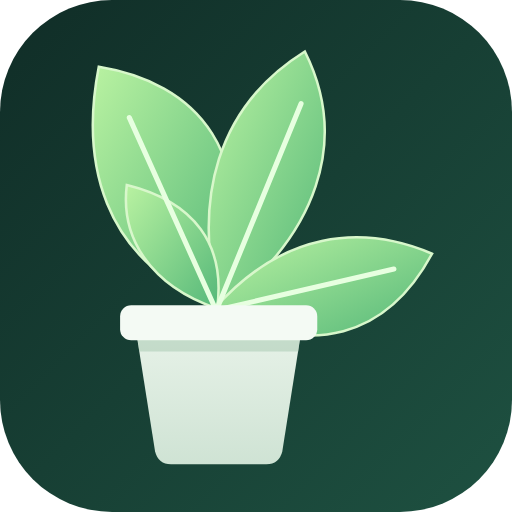
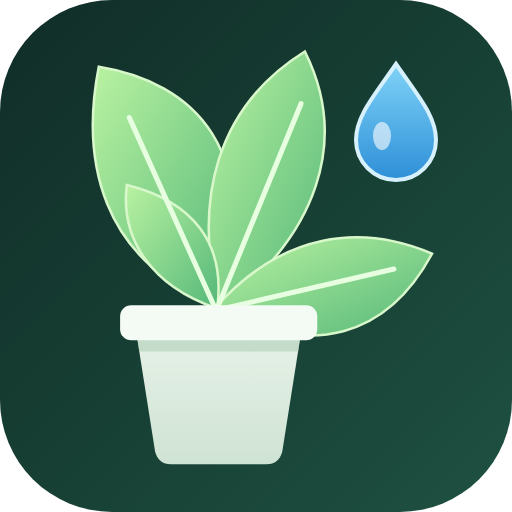
docs: add a water drop to the emblem
Claude-Session: https://claude.ai/code/session_013uZs62LriKPCejSMFFtfdA

Changed region(s): [[0.6875, 0.125, 0.875, 0.375]]

diff --git a/custom_components/plant_manager/www/plant-manager-card.js b/custom_components/plant_manager/www/plant-manager-card.js
@@ -139,7 +139,7 @@ const plantManagerLanguage = (hass) => hass?.locale?.language || hass?.language;
 const plantManagerNumber = (value, T) => Number(value).toLocaleString(T.locale, { maximumFractionDigits: 1 });
 
 // The Plant Manager emblem, generated from docs/brand/plant-manager-icon.svg.
-const PLANT_MANAGER_EMBLEM = '<svg viewBox="0 0 256 256" aria-hidden="true"><defs><linearGradient id="pm-bg" x1="0" y1="0" x2="1" y2="1"><stop offset="0" stop-color="#102d27"/><stop offset="1" stop-color="#1e5141"/></linearGradient><linearGradient id="pm-pot" x1="0" y1="0" x2="0" y2="1"><stop offset="0" stop-color="#e7f2e8"/><stop offset="1" stop-color="#cfe3d4"/></linearGradient><linearGradient id="pm-leaf" x1="0" y1="0" x2="1" y2="1"><stop offset="0" stop-color="#b9f2a1"/><stop offset="1" stop-color="#55b879"/></linearGradient></defs><rect id="pm-tile" width="256" height="256" rx="56" fill="url(#pm-bg)"/><g id="pm-plant" transform="translate(20.3 -15.9) scale(.795)" fill="url(#pm-leaf)" stroke="#d8f7cb" stroke-width="2"><g transform="translate(111 214) scale(.8) translate(-111 -214)"><path d="M112 212C18 176 4 96 18 24c74 12 132 65 94 188Z"/><path d="M113 214C91 128 111 55 180 12c35 70 10 145-67 202Z"/><path d="M109 214C162 154 224 147 280 171c-35 65-94 83-171 43Z"/><path d="M111 214C58 196 35 158 40 117c53 13 78 47 71 97Z"/><path d="M110 215L42 64M111 214L177 53M112 215L250 183" fill="none" stroke="#e7ffe0" stroke-width="4" stroke-linecap="round"/></g><g stroke="none"><path d="M60 228H164L152 304Q150 312 142 312H82Q74 312 72 304Z" fill="url(#pm-pot)"/><path d="M61 233H163L162 241H62Z" fill="#a9cbb2" opacity=".55"/><rect x="50" y="212" width="124" height="22" rx="7" fill="#f4faf4"/></g></g></svg>';
+const PLANT_MANAGER_EMBLEM = '<svg viewBox="0 0 256 256" aria-hidden="true"><defs><linearGradient id="pm-bg" x1="0" y1="0" x2="1" y2="1"><stop offset="0" stop-color="#102d27"/><stop offset="1" stop-color="#1e5141"/></linearGradient><linearGradient id="pm-pot" x1="0" y1="0" x2="0" y2="1"><stop offset="0" stop-color="#e7f2e8"/><stop offset="1" stop-color="#cfe3d4"/></linearGradient><linearGradient id="pm-drop" x1="0" y1="0" x2="0" y2="1"><stop offset="0" stop-color="#7fd3f7"/><stop offset="1" stop-color="#2e8fd8"/></linearGradient><linearGradient id="pm-leaf" x1="0" y1="0" x2="1" y2="1"><stop offset="0" stop-color="#b9f2a1"/><stop offset="1" stop-color="#55b879"/></linearGradient></defs><rect id="pm-tile" width="256" height="256" rx="56" fill="url(#pm-bg)"/><g id="pm-plant" transform="translate(20.3 -15.9) scale(.795)" fill="url(#pm-leaf)" stroke="#d8f7cb" stroke-width="2"><g transform="translate(111 214) scale(.8) translate(-111 -214)"><path d="M112 212C18 176 4 96 18 24c74 12 132 65 94 188Z"/><path d="M113 214C91 128 111 55 180 12c35 70 10 145-67 202Z"/><path d="M109 214C162 154 224 147 280 171c-35 65-94 83-171 43Z"/><path d="M111 214C58 196 35 158 40 117c53 13 78 47 71 97Z"/><path d="M110 215L42 64M111 214L177 53M112 215L250 183" fill="none" stroke="#e7ffe0" stroke-width="4" stroke-linecap="round"/></g><g stroke="none"><path d="M60 228H164L152 304Q150 312 142 312H82Q74 312 72 304Z" fill="url(#pm-pot)"/><path d="M61 233H163L162 241H62Z" fill="#a9cbb2" opacity=".55"/><rect x="50" y="212" width="124" height="22" rx="7" fill="#f4faf4"/></g></g><g id="pm-drop-mark" transform="translate(198 62)"><path d="M0-30C11-14 20-4 20 8A20 20 0 0 1-20 8C-20-4-11-14 0-30Z" fill="url(#pm-drop)" stroke="#d6f1fd" stroke-width="2"/><ellipse cx="-7" cy="6" rx="4.5" ry="7" fill="#ffffff" opacity=".6"/></g></svg>';
 
 const PLANT_MANAGER_STATUSES = {
   needs_water: { tone: "dry", icon: "mdi:water-alert-outline", order: 0 },

diff --git a/www/plant-manager-card.js b/www/plant-manager-card.js
@@ -139,7 +139,7 @@ const plantManagerLanguage = (hass) => hass?.locale?.language || hass?.language;
 const plantManagerNumber = (value, T) => Number(value).toLocaleString(T.locale, { maximumFractionDigits: 1 });
 
 // The Plant Manager emblem, generated from docs/brand/plant-manager-icon.svg.
-const PLANT_MANAGER_EMBLEM = '<svg viewBox="0 0 256 256" aria-hidden="true"><defs><linearGradient id="pm-bg" x1="0" y1="0" x2="1" y2="1"><stop offset="0" stop-color="#102d27"/><stop offset="1" stop-color="#1e5141"/></linearGradient><linearGradient id="pm-pot" x1="0" y1="0" x2="0" y2="1"><stop offset="0" stop-color="#e7f2e8"/><stop offset="1" stop-color="#cfe3d4"/></linearGradient><linearGradient id="pm-leaf" x1="0" y1="0" x2="1" y2="1"><stop offset="0" stop-color="#b9f2a1"/><stop offset="1" stop-color="#55b879"/></linearGradient></defs><rect id="pm-tile" width="256" height="256" rx="56" fill="url(#pm-bg)"/><g id="pm-plant" transform="translate(20.3 -15.9) scale(.795)" fill="url(#pm-leaf)" stroke="#d8f7cb" stroke-width="2"><g transform="translate(111 214) scale(.8) translate(-111 -214)"><path d="M112 212C18 176 4 96 18 24c74 12 132 65 94 188Z"/><path d="M113 214C91 128 111 55 180 12c35 70 10 145-67 202Z"/><path d="M109 214C162 154 224 147 280 171c-35 65-94 83-171 43Z"/><path d="M111 214C58 196 35 158 40 117c53 13 78 47 71 97Z"/><path d="M110 215L42 64M111 214L177 53M112 215L250 183" fill="none" stroke="#e7ffe0" stroke-width="4" stroke-linecap="round"/></g><g stroke="none"><path d="M60 228H164L152 304Q150 312 142 312H82Q74 312 72 304Z" fill="url(#pm-pot)"/><path d="M61 233H163L162 241H62Z" fill="#a9cbb2" opacity=".55"/><rect x="50" y="212" width="124" height="22" rx="7" fill="#f4faf4"/></g></g></svg>';
+const PLANT_MANAGER_EMBLEM = '<svg viewBox="0 0 256 256" aria-hidden="true"><defs><linearGradient id="pm-bg" x1="0" y1="0" x2="1" y2="1"><stop offset="0" stop-color="#102d27"/><stop offset="1" stop-color="#1e5141"/></linearGradient><linearGradient id="pm-pot" x1="0" y1="0" x2="0" y2="1"><stop offset="0" stop-color="#e7f2e8"/><stop offset="1" stop-color="#cfe3d4"/></linearGradient><linearGradient id="pm-drop" x1="0" y1="0" x2="0" y2="1"><stop offset="0" stop-color="#7fd3f7"/><stop offset="1" stop-color="#2e8fd8"/></linearGradient><linearGradient id="pm-leaf" x1="0" y1="0" x2="1" y2="1"><stop offset="0" stop-color="#b9f2a1"/><stop offset="1" stop-color="#55b879"/></linearGradient></defs><rect id="pm-tile" width="256" height="256" rx="56" fill="url(#pm-bg)"/><g id="pm-plant" transform="translate(20.3 -15.9) scale(.795)" fill="url(#pm-leaf)" stroke="#d8f7cb" stroke-width="2"><g transform="translate(111 214) scale(.8) translate(-111 -214)"><path d="M112 212C18 176 4 96 18 24c74 12 132 65 94 188Z"/><path d="M113 214C91 128 111 55 180 12c35 70 10 145-67 202Z"/><path d="M109 214C162 154 224 147 280 171c-35 65-94 83-171 43Z"/><path d="M111 214C58 196 35 158 40 117c53 13 78 47 71 97Z"/><path d="M110 215L42 64M111 214L177 53M112 215L250 183" fill="none" stroke="#e7ffe0" stroke-width="4" stroke-linecap="round"/></g><g stroke="none"><path d="M60 228H164L152 304Q150 312 142 312H82Q74 312 72 304Z" fill="url(#pm-pot)"/><path d="M61 233H163L162 241H62Z" fill="#a9cbb2" opacity=".55"/><rect x="50" y="212" width="124" height="22" rx="7" fill="#f4faf4"/></g></g><g id="pm-drop-mark" transform="translate(198 62)"><path d="M0-30C11-14 20-4 20 8A20 20 0 0 1-20 8C-20-4-11-14 0-30Z" fill="url(#pm-drop)" stroke="#d6f1fd" stroke-width="2"/><ellipse cx="-7" cy="6" rx="4.5" ry="7" fill="#ffffff" opacity=".6"/></g></svg>';
 
 const PLANT_MANAGER_STATUSES = {
   needs_water: { tone: "dry", icon: "mdi:water-alert-outline", order: 0 },
